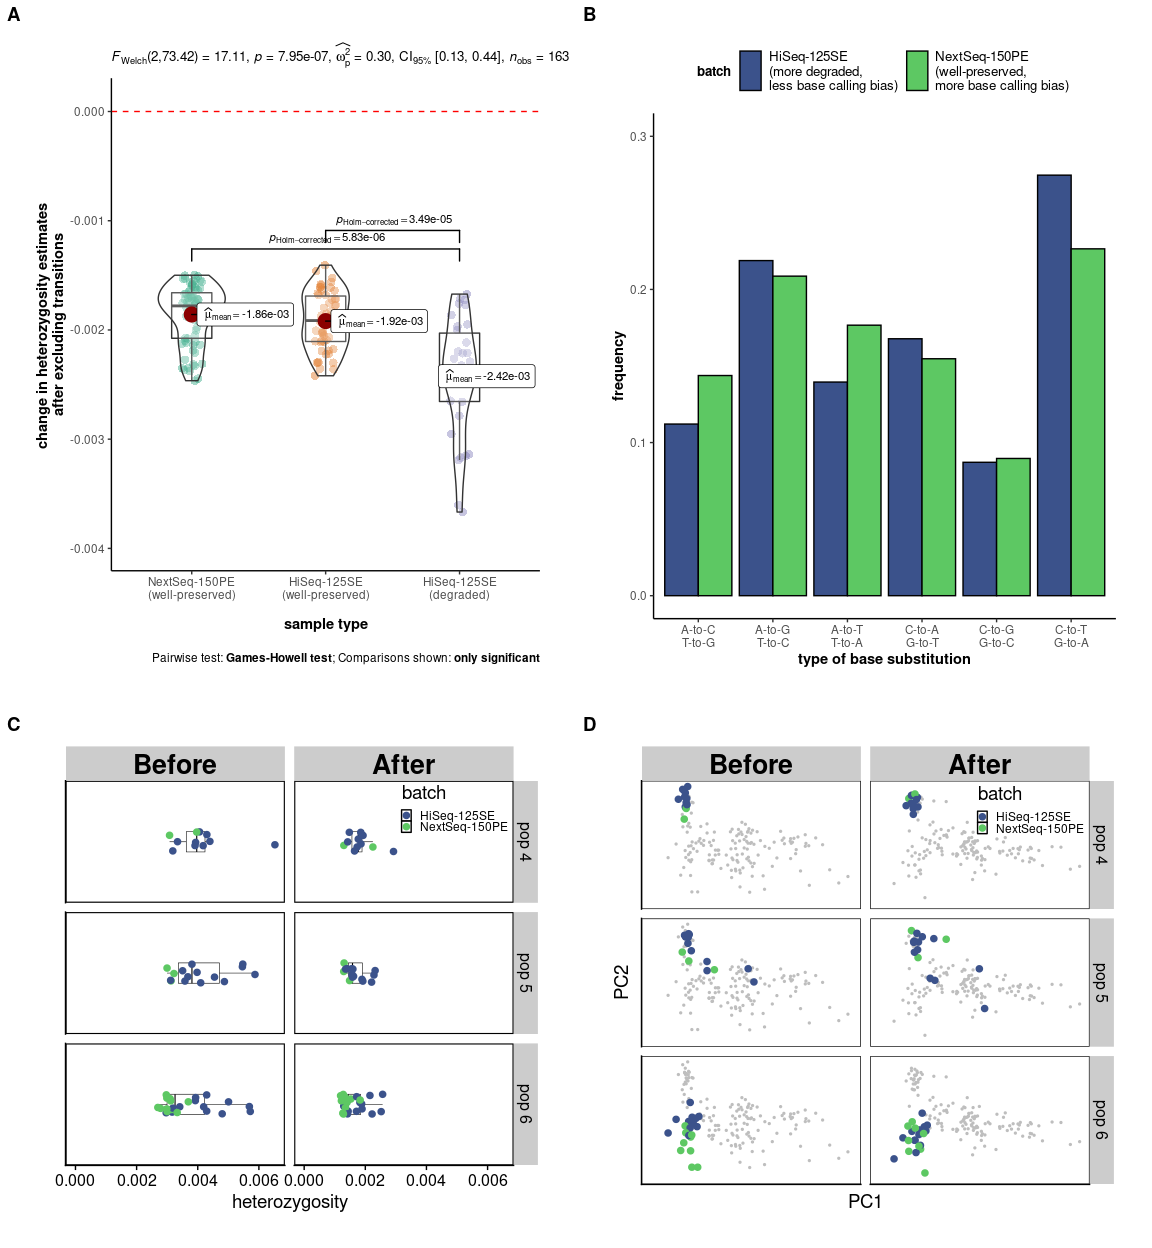
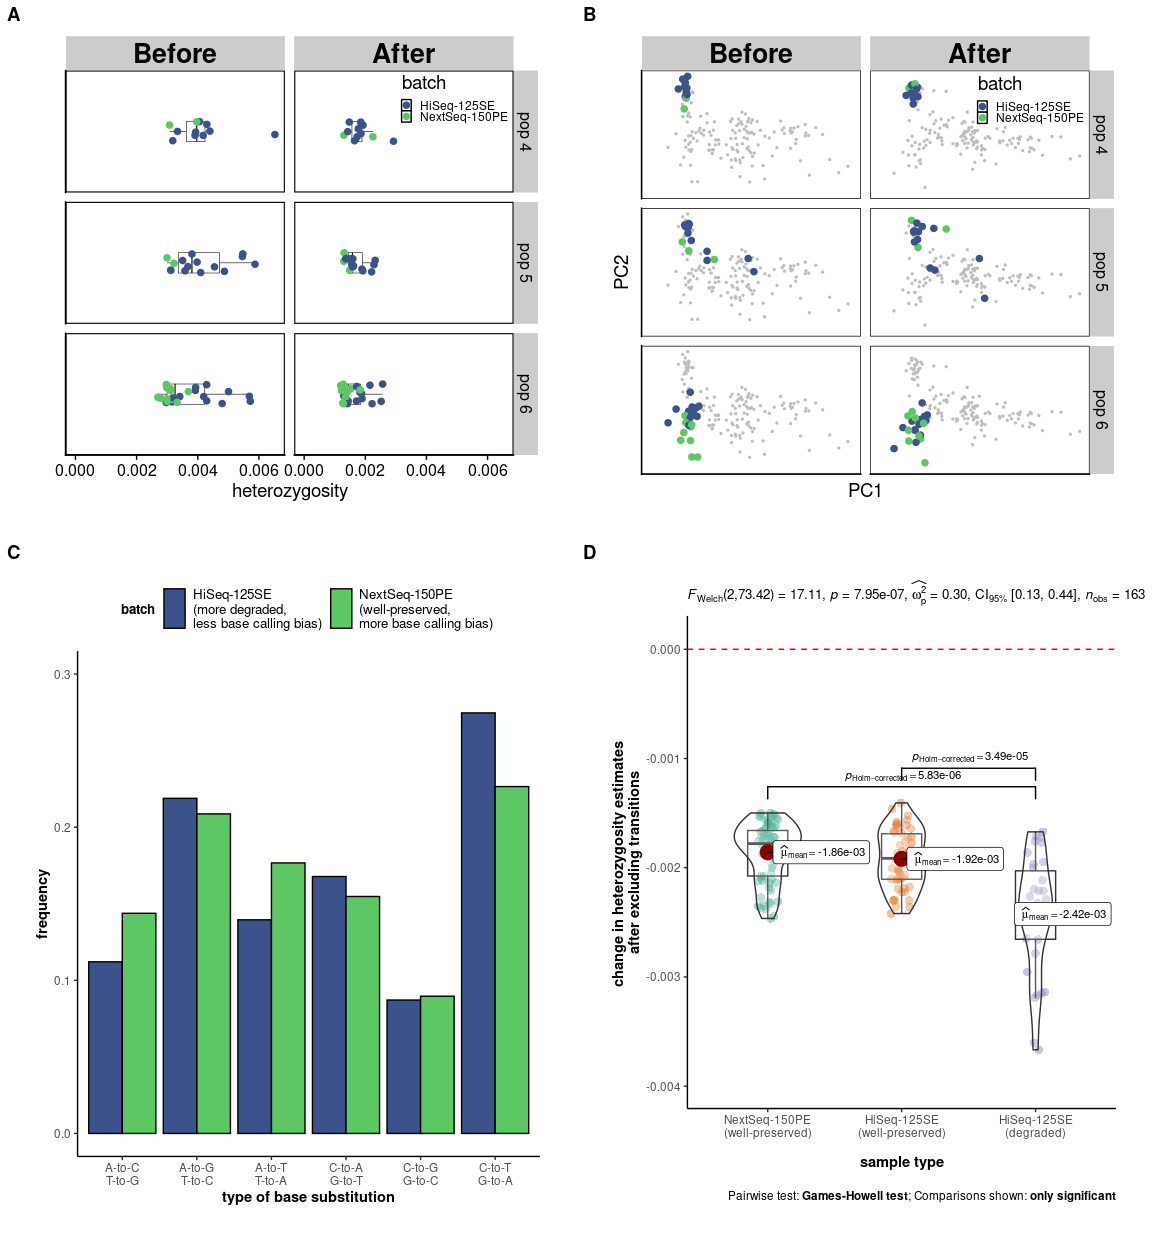
rearranged degradation figure

diff --git a/markdown/degradation.md b/markdown/degradation.md
@@ -740,8 +740,8 @@ p_d
 ## Assemble Figure 5
 
 ``` r
-top <- cowplot::plot_grid(p_a, p_b,nrow = 1, labels = c("A", "B"), scale = 0.9)
-bottom <- cowplot::plot_grid(p_c, p_d, nrow = 1, labels = c("C", "D"), scale = 0.9)
+bottom <- cowplot::plot_grid(p_b, p_a,nrow = 1, labels = c("C", "D"), scale = 0.9)
+top <- cowplot::plot_grid(p_c, p_d, nrow = 1, labels = c("A", "B"), scale = 0.9)
 ```
 
     ## Warning: Removed 12 rows containing missing values (geom_point).
@@ -749,7 +749,7 @@ bottom <- cowplot::plot_grid(p_c, p_d, nrow = 1, labels = c("C", "D"), scale = 0
     ## Warning: Removed 4 rows containing missing values (geom_point).
 
 ``` r
-figure <- cowplot::plot_grid(top, bottom, nrow = 2, rel_heights = c(7, 5.3))
+figure <- cowplot::plot_grid(top, bottom, nrow = 2, rel_heights = c(5.3, 7))
 print(figure)
 ```
 
